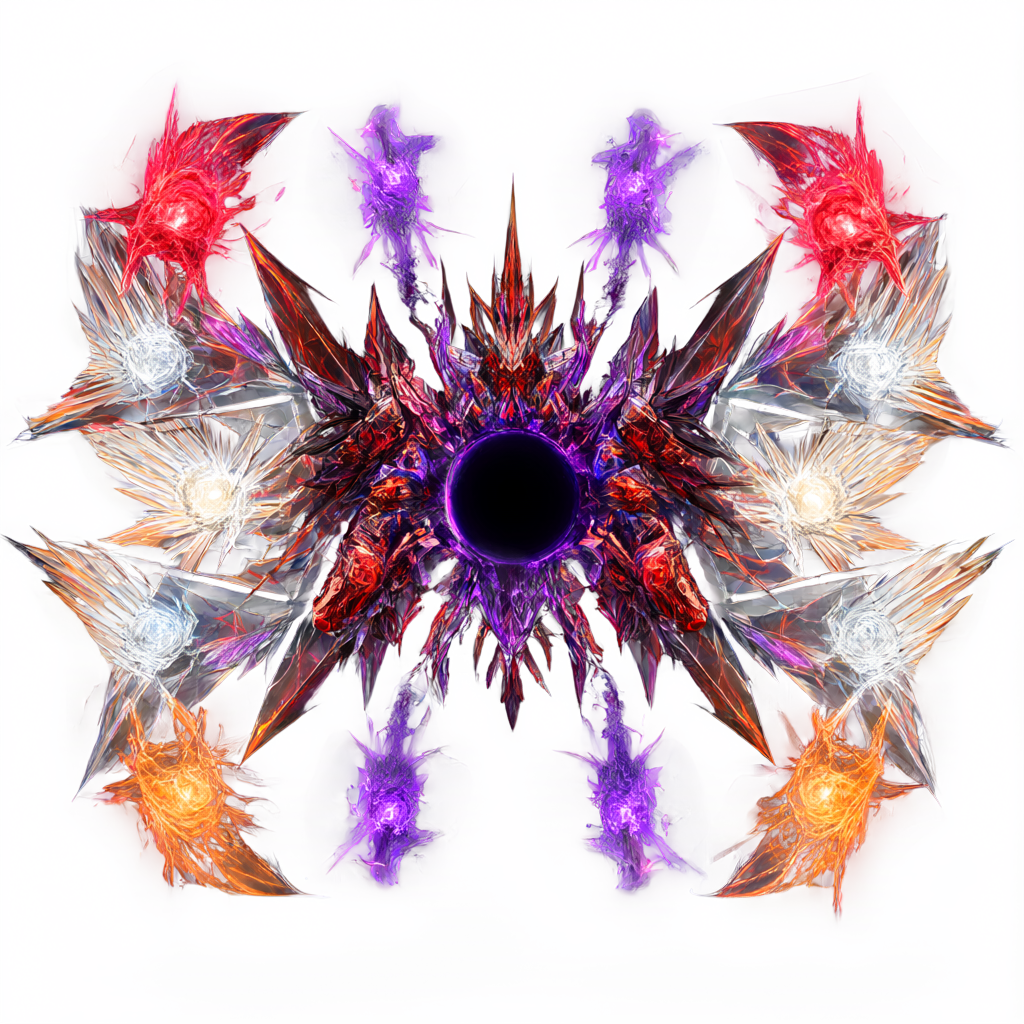
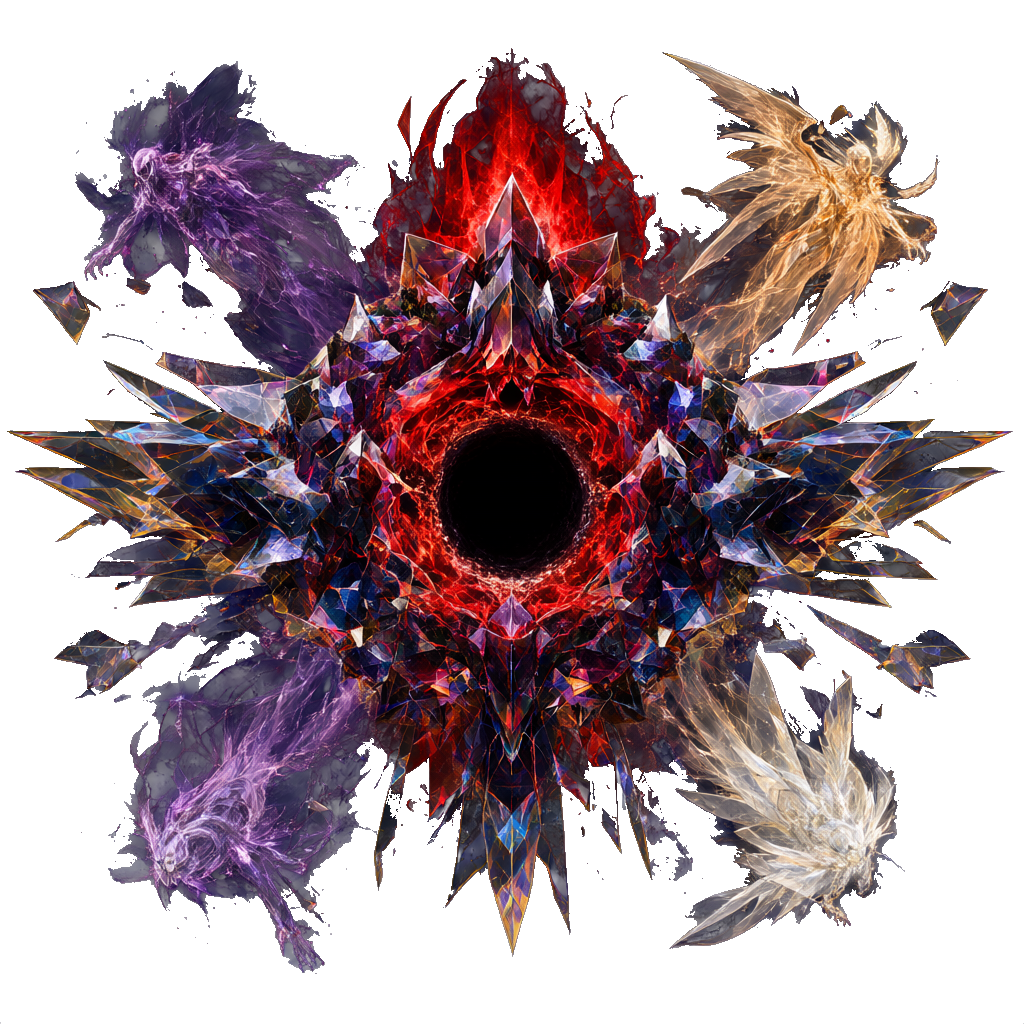
Add spectral phase1, rise motion and 24-copy halo

diff --git a/game3.js b/game3.js
@@ -1725,7 +1725,7 @@ function step(dt){
       if(co.t<=co.travel){var ck=Math.min(1,co.t/co.travel);co.x=boss.x+(co.tx-boss.x)*ck;co.y=boss.y+(co.ty-boss.y)*ck;}
       else if(!co.armed&&co.t>=co.travel+co.charge){co.armed=true;bossCrossArms();boss.crossOrb=null;}
     }
-    var ty=(stage===4?H*.44:((def.move==='dash')?215:205));
+    var ty=(stage===4?H*.26:((def.move==='dash')?215:205));
     if(boss.entering){
       boss.y+=140*dt;
       if(boss.y>=ty){boss.y=ty;boss.entering=false;boss.invuln=1.0;boss.t=0;}
@@ -1733,8 +1733,9 @@ function step(dt){
       if(def.move==='sine') boss.x=W/2+Math.sin(boss.t*0.6)*82;
       else if(def.move==='wide') boss.x=W/2+Math.sin(boss.t*0.45)*112;
       else boss.x=W/2+Math.sin(boss.t*1.05)*120;
-      boss.y=ty+Math.sin(boss.t*0.8)*8;
-      if(def.move==='dash') boss.y=ty+Math.sin(boss.t*0.55)*16;
+      if(stage===4) boss.y+=(ty-boss.y)*Math.min(1,dt*1.8);
+      else boss.y=ty+Math.sin(boss.t*0.8)*8;
+      if(def.move==='dash'&&stage!==4) boss.y=ty+Math.sin(boss.t*0.55)*16;
       var hw=def.w/2+6; boss.x=Math.max(hw,Math.min(W-hw,boss.x));
       if(boss.ultCharge<=0){
         if(boss.phase===0&&boss.hp<boss.max*0.60&&stage!==4) bossPhase(1);
@@ -2177,6 +2178,35 @@ function bossGlowLayer(key,img,rgb){
     GLOW_CACHE[key]=cv;return cv;
   }catch(e){return null;}
 }
+function drawSpectralAura(w,h){
+  if(!boss) return;
+  ctx.save();ctx.globalCompositeOperation='lighter';
+  var g=ctx.createRadialGradient(boss.x,boss.y,w*.18,boss.x,boss.y,w*.70);
+  g.addColorStop(0,'rgba(255,220,150,0.10)');
+  g.addColorStop(.35,'rgba(255,90,200,0.08)');
+  g.addColorStop(.62,'rgba(80,210,255,0.09)');
+  g.addColorStop(.84,'rgba(130,100,255,0.06)');
+  g.addColorStop(1,'rgba(0,0,0,0)');
+  ctx.fillStyle=g;ctx.beginPath();ctx.arc(boss.x,boss.y,w*.72,0,TAU);ctx.fill();
+  ctx.restore();ctx.globalAlpha=1;
+}
+function drawPhase2BossHalo(w,h){
+  if(!boss) return;
+  var imgs=[GIMG.b1_1,GIMG.b2_1,GIMG.b3_1,GIMG.b4_1];
+  var cols=['#ff5f7a','#c06aff','#ff9a3a','#ffe7a0'];
+  ctx.save();
+  for(var k=0;k<24;k++){
+    var im=imgs[k%4];if(!im||!im.complete) continue;
+    var a=k*TAU/24+time*.055;
+    var rr=w*.46;
+    var px=boss.x+Math.cos(a)*rr,py=boss.y+Math.sin(a)*rr*.72;
+    var ss=w*.11;
+    ctx.save();ctx.globalAlpha=.28;
+    ctx.translate(px,py);ctx.rotate(a+Math.PI/2+time*.06);if(k%2)ctx.scale(-1,1);
+    ctx.drawImage(im,-ss/2,-ss/2,ss,ss);ctx.restore();
+  }
+  ctx.restore();ctx.globalAlpha=1;
+}
 function drawChronosEntityHalo(w,h){
   if(!boss) return;
   ctx.save();ctx.globalCompositeOperation='lighter';
@@ -2282,7 +2312,7 @@ function drawBoss(){
     ctx.restore();ctx.globalAlpha=1;
   }
 
-  if(stage===4&&phase===0) drawChronosEntityHalo(w,h);
+  if(stage===4&&phase===0){drawSpectralAura(w,h);drawChronosEntityHalo(w,h);}
   if(stage===4) drawChronosFractal(w,h,phase);
   ctx.save();
   if(stage===4){
@@ -2300,9 +2330,13 @@ function drawBoss(){
     ctx.globalAlpha=1;ctx.globalCompositeOperation='source-over';
     ctx.drawImage(img,-w/2,-h/2,w,h);
     if(phase===0){
-      ctx.globalCompositeOperation='lighter';ctx.globalAlpha=.08;
-      ctx.rotate(time*.10);ctx.scale(1.035,1.035);
-      ctx.drawImage((GIMG.np2&&GIMG.np2.complete)?GIMG.np2:img,-w/2,-h/2,w,h);
+      for(var sg=0;sg<3;sg++){
+        ctx.save();ctx.globalCompositeOperation='lighter';ctx.globalAlpha=.085;
+        if('filter' in ctx) ctx.filter='hue-rotate('+(45+sg*105)+'deg) saturate(1.8)';
+        ctx.rotate(time*(.10+sg*.045));ctx.scale(1.035+sg*.018,1.035+sg*.018);
+        ctx.drawImage(img,-w/2,-h/2,w,h);
+        ctx.filter='none';ctx.restore();
+      }
       ctx.globalAlpha=1;ctx.globalCompositeOperation='source-over';
     }
   }else ctx.drawImage(img,boss.x-w/2,boss.y-h/2,w,h);
@@ -2359,6 +2393,7 @@ function drawBoss(){
     }
     ctx.restore();ctx.globalAlpha=1;
   }
+  if(stage===4&&boss.phase===1) drawPhase2BossHalo(w,h);
   ctx.restore();
 }
 function bulletImg(){ return GIMG['u'+(stage===0?'1':(stage===1?'2':'5'))]; }
@@ -2868,37 +2903,29 @@ function drawFusionScene(tArg){
     var qe=q*q*(3-2*q);
     var startAng=i*1.62+0.45, spin=2.2*TAU*dir;
     function spiralPos(qq){
-      var aa=startAng+qq*spin, rr=W*.62*(1-qq)+18;
+      var aa=startAng+qq*spin, rr=Math.max(W,H)*.82*(1-qq)+18;
       return {x:cx+Math.cos(aa)*rr,y:cy+Math.sin(aa)*rr*.72};
     }
     var bp0=spiralPos(qe),x=bp0.x,y=bp0.y;
     var sz=196*(1-.22*qe);
     var fade=cl((1.15-q)/.25);
     if(p<1.15){
-      // afterimages of the whole boss texture
-      for(var k=11;k>=1;k--){
-        var qk=cl(qe-k*.022);
-        var tp=spiralPos(qk),tx=tp.x,ty=tp.y;
-        ctx.save();ctx.globalAlpha=.075*(12-k)*fade;
-        ctx.translate(tx,ty);ctx.rotate(-dir*(.12+qk*.3));ctx.drawImage(im,-sz*.42,-sz*.42,sz*.84,sz*.84);ctx.restore();
-      }
       ctx.save();ctx.globalAlpha=fade*.95;ctx.translate(x,y);ctx.rotate(-dir*(.1+qe*.35));ctx.drawImage(im,-sz/2,-sz/2,sz,sz);ctx.restore();ctx.globalAlpha=1;
       if(q<.7){ctx.save();ctx.globalAlpha=fade*.6;ctx.textAlign='center';ctx.fillStyle=cols[i];ctx.font='8px monospace';ctx.fillText(names[i],W/2,H*.255);ctx.restore();ctx.globalAlpha=1;}
     }
-    // once the boss reaches the core, its texture becomes a self-similar fractal ring
-    var ringA=cl((q-.42)/.42);if(ringA>0){
-      // 8 whole-boss copies per ring, two rings; flat source-over overlap, no depth sorting
-      var baseR=152-i*14;
-      for(var layer=0;layer<2;layer++){
-        var rr=baseR*(layer?.62:1),n=layer?4:8,ss=(layer?118:158);
-        for(var k2=0;k2<n;k2++){
-          var a=k2*TAU/n+i*.42+time*.07*dir*(layer?1.6:1);
-          var px=cx+Math.cos(a)*rr,py=cy+Math.sin(a)*rr*.72;
-          ctx.save();ctx.globalAlpha=ringA*(layer?.30:.62);
-          ctx.translate(px,py);ctx.rotate(a+Math.PI/2+time*.12*dir);if((k2+layer+i)%2)ctx.scale(-1,1);
-          ctx.drawImage(im,-ss/2,-ss/2,ss,ss);ctx.restore();
-        }
-      }
+    // exactly 24 whole-sprite copies per boss: trail along the spiral, then fold into a 24-way ring
+    var ringBlend=cl((q-.38)/.45);
+    var baseR=160-i*12;
+    for(var k2=0;k2<24;k2++){
+      var qk=cl(qe-(k2/23)*.22);
+      var tp=spiralPos(qk);
+      var ra=k2*TAU/24+i*.35+time*.05*dir;
+      var rx=cx+Math.cos(ra)*baseR, ry=cy+Math.sin(ra)*baseR*.72;
+      var px=tp.x+(rx-tp.x)*ringBlend, py=tp.y+(ry-tp.y)*ringBlend;
+      var ss=98;
+      ctx.save();ctx.globalAlpha=.44*(1-ringBlend*.12);
+      ctx.translate(px,py);ctx.rotate(ra+Math.PI/2+time*.10*dir);if((k2+i)%2)ctx.scale(-1,1);
+      ctx.drawImage(im,-ss/2,-ss/2,ss,ss);ctx.restore();
     }
   }
   // AI distortion entity growing at the eye, then absorbing the four rings

diff --git a/docs/STAGE5.md b/docs/STAGE5.md
@@ -24,15 +24,17 @@ Status: implemented as the final stage.
 
 - The entity arrives from far away: `RESONANCE` zoom-in over 3.6s, using the AI frames `np1`/`np3` and a procedural resonance halo.
 - The four old bosses are **not** part of the entrance; they appear only after phase 1 is defeated.
-- Phase 1 uses only the AI Hedron-like entity (`boss_5_phase1.png` / `np1`–`np3`), animated by cycling AI frames + rotating resonance halo; no old-boss armor.
+- Phase 1 uses the AI Hedron-like entity (`np1`–`np3`) with spectral tinting, hue-rotated ghost frames, a warm core and a rotating resonance halo; no old-boss armor.
+- After appearing at the center, the phase-1 entity rises to the upper screen (about 26% height) over roughly one second.
 - Phase 1 has 36% of the total Boss 5 HP (3629). When it reaches 0, the game enters a 9.4s fusion cinematic.
-- Each boss approaches along a **vortex spiral**, leaving a chain of whole-sprite afterimages on the curved path, then stamps into a two-layer 8-way rosette:
-  - Outer ring: 8 copies.
-  - Inner ring: 4 copies, 0.62 scale, offset angle.
-  - Source-over overlap, no depth sorting: copies visibly overlap and occlude each other.
+- Each boss starts fully off-screen and approaches along a **vortex spiral**, leaving copies on the curved path.
+- Each boss contributes exactly **24 whole-sprite copies**: the copies start as the spiral trail and fold into a 24-way ring.
+- Source-over overlap, no depth sorting: copies visibly overlap and occlude each other.
+- The phase-2 Boss keeps a matching 24-copy halo around its body.
 - Finished rings remain in place around the eye for the next boss.
 - After all four rings are formed, the AI distortion frames absorb them and the composite phase-2 body materializes.
-- Phase 2 starts with the remaining 64% HP (6451), displayed as a refilled bar.
+- Phase 2 uses the original Boss 5 phase-1 composite art as its body, starts with the remaining 64% HP (6451), and rises to the upper screen after fusion.
+- Phase 3 keeps the existing phase-3 collapse art.
 - The phase-2 composite then fights with the old bosses' attack patterns. Phase 3 begins at 30% of the phase-2 bar and returns to the black-hole collapse form.
 - AI frames: `b5_entity`, `b5_fusion_mid1`, `b5_fusion_mid2`.
 - Boss 5 HP is ×1.5 on top of the global multiplier: **10080**.
